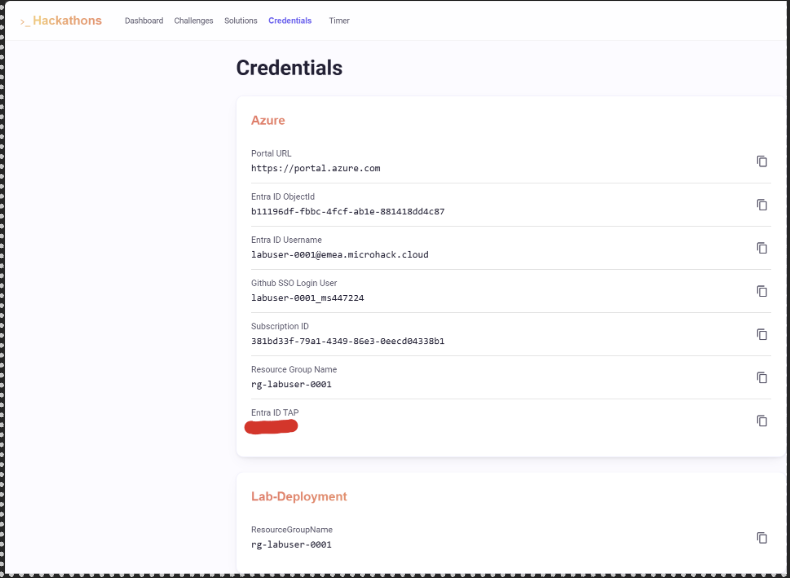
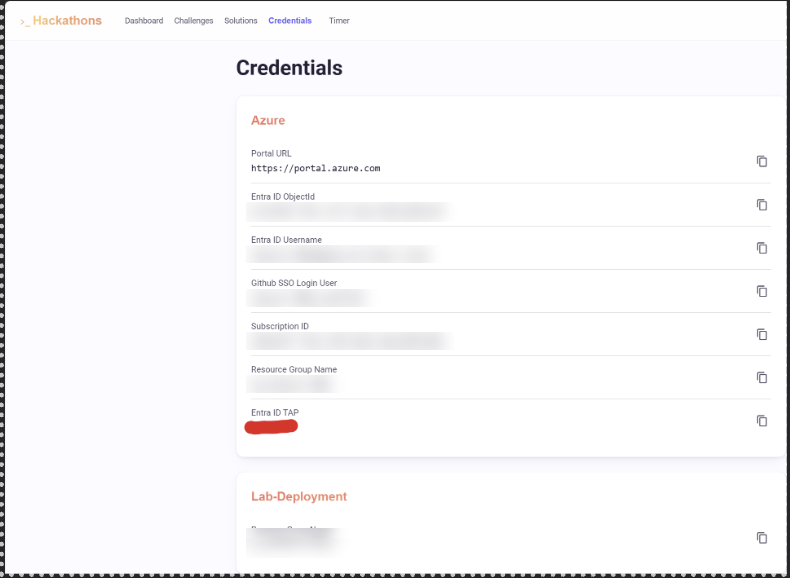
Publish standalone Claims Processing workshop
Extract the committed workshop snapshot from MicroHack f0b37bf3f99d231512a2232480aca133c287a551, retaining the upstream MIT license.

diff --git a/hooks/sync_docs.py b/hooks/sync_docs.py
@@ -1,5 +1,35 @@
 from pathlib import Path
+import re
 import shutil
+
+
+ALERT_START = re.compile(r"^(\s*)>\s*\[!(NOTE|TIP|IMPORTANT|WARNING|CAUTION)\]\s*(.*)$")
+BLOCKQUOTE_LINE = re.compile(r"^\s*>")
+
+
+def convert_alerts(text):
+    """Rewrite GitHub alert blocks (> [!NOTE]) as MkDocs admonitions (!!! note)."""
+    lines = text.split("\n")
+    out = []
+    i = 0
+    while i < len(lines):
+        match = ALERT_START.match(lines[i])
+        if not match:
+            out.append(lines[i])
+            i += 1
+            continue
+        indent, kind, first = match.groups()
+        body = [first.strip()] if first.strip() else []
+        i += 1
+        while i < len(lines) and BLOCKQUOTE_LINE.match(lines[i]):
+            body.append(re.sub(r"^\s*>\s?", "", lines[i]))
+            i += 1
+        out.append(f"{indent}!!! {kind.lower()}")
+        out.append("")
+        for line in body:
+            out.append(f"{indent}    {line}" if line.strip() else "")
+        out.append("")
+    return "\n".join(out)
 
 
 IGNORED_ENTRIES = shutil.ignore_patterns(
@@ -58,7 +88,7 @@ def on_pre_build(config):
         text = page.read_text().replace("../README.md", "../index.md")
         text = text.replace("../.foundry/.deployment.example.json", "../foundry-deployment.example.json")
         text = text.replace("../agent-framework/.agentignore", "../agent-framework/agentignore-example.txt")
-        page.write_text(text)
+        page.write_text(convert_alerts(text))
 
     shutil.copy2(
         repository / "agent-framework" / ".agentignore",

diff --git a/challenges/challenge-01.md b/challenges/challenge-01.md
@@ -20,10 +20,8 @@ credentials. Your event lead provides a username and password for the console.
 Use them only during the event window your event lead set.
 
 1. Open [emea.microhack.cloud](https://emea.microhack.cloud/).
-2. Sign in with your username and password. If you are asked which account to use,
-   select **Use another account**.
-3. Set up multi-factor authentication and reset your password when prompted.
-4. On the home screen, open **Credentials**. You see only your own Azure lab
+2. Sign in with your username and password. 
+3. On the home screen, open **Credentials**. You see only your own Azure lab
    credentials. Keep them ready for the tasks below.
 
 The sign-in screen from step 2:
